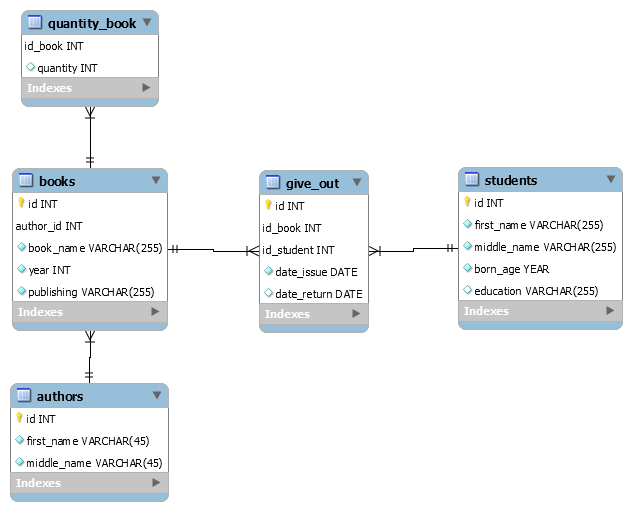
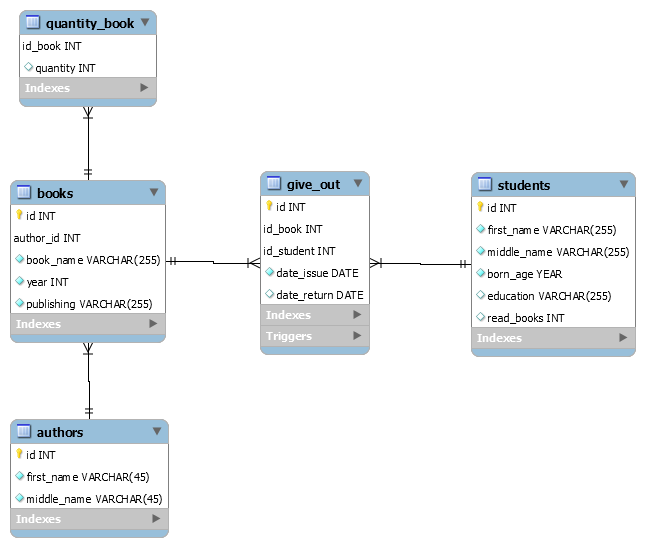
f

Changed region(s): [[0.0, 0.2935, 0.9921, 0.998], [0.0301, 0.0, 0.2706, 0.3229]]

diff --git a/hardReader.py b/hardReader.py
@@ -30,21 +30,13 @@ def execute_read_query(connection, query):
 connection = create_connection("localhost", "root", "root", "test_ex")    
 
 sql = """
-    SELECT * 
+    SELECT
+        first_name, middle_name, read_books 
     FROM 
-    test_ex.authors
-    WHERE
-    authors.id = (SELECT 
-        books.author_id
-        FROM 
-        books, give_out
-        WHERE 
-        give_out.id_book = books.id AND give_out.date_issue > DATE_ADD(CURDATE(), INTERVAL -1 YEAR)
-        GROUP BY 
-        books.author_id 
-        ORDER BY
-        COUNT(books.author_id) 
-        DESC LIMIT 1)
+        test_ex.students
+    ORDER BY
+        read_books  
+    DESC LIMIT 1  
 """
 
 users = execute_read_query(connection, sql)
